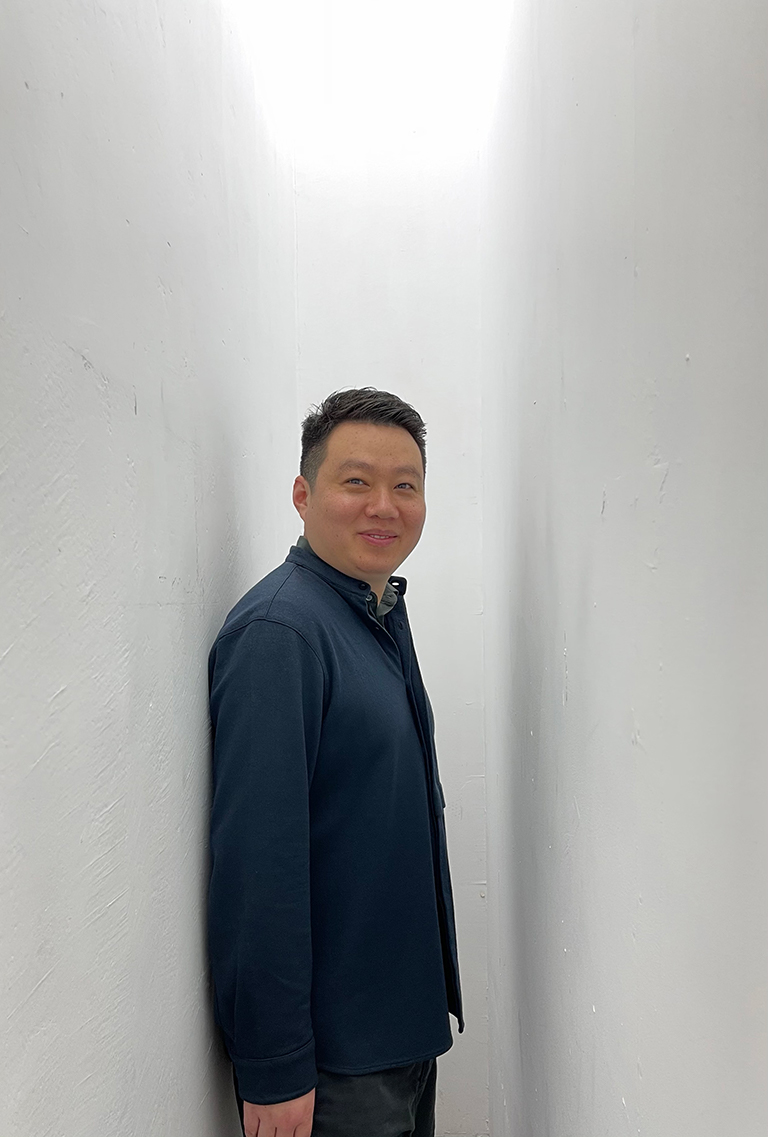
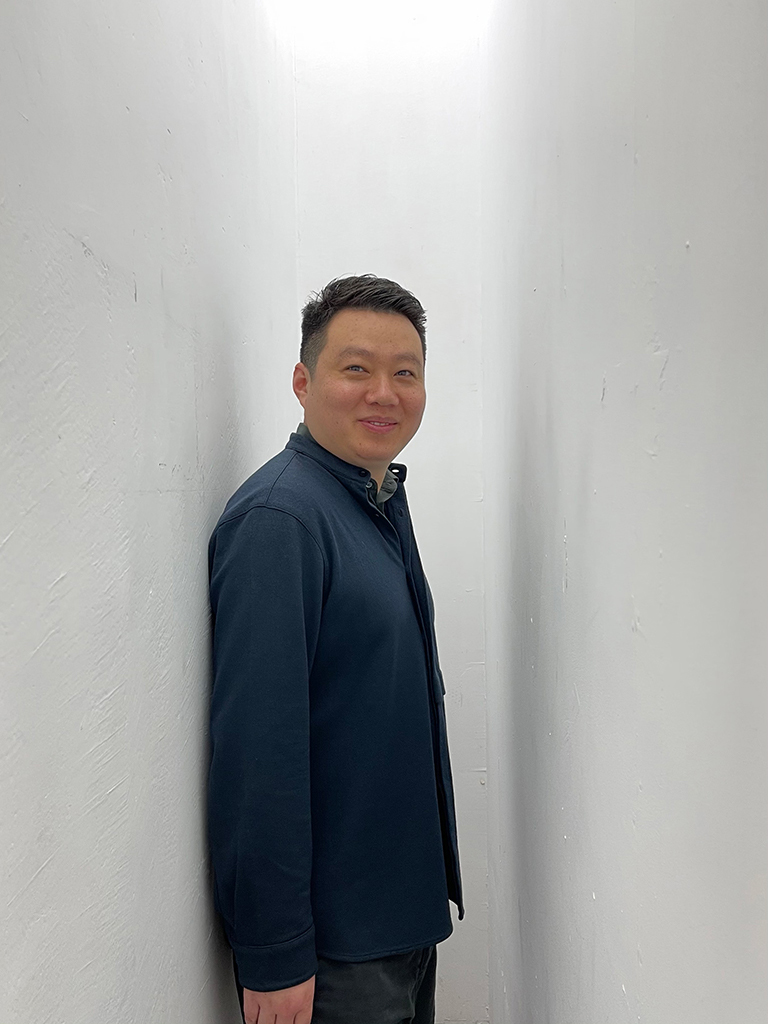
height change, img change

diff --git a/index.html b/index.html
@@ -12,7 +12,7 @@
         z-index: 0;
       }
       img{
-        min-height: 100%;
+        max-height: 100%;
         width: auto;
         position: fixed;
         top: 50%;
@@ -28,6 +28,7 @@
     <script type="text/javascript" src="https://code.jquery.com/jquery-2.1.4.min.js"></script>
     <script type="text/javascript" src="jquery-sequencer.min.js"></script>
     <script>
+    $(".fader > img").css("height","100%");
 		var pos = 0;
 		var click_num = 1;
 		var $imgs = $(".fader").find("img"),i = 0;
